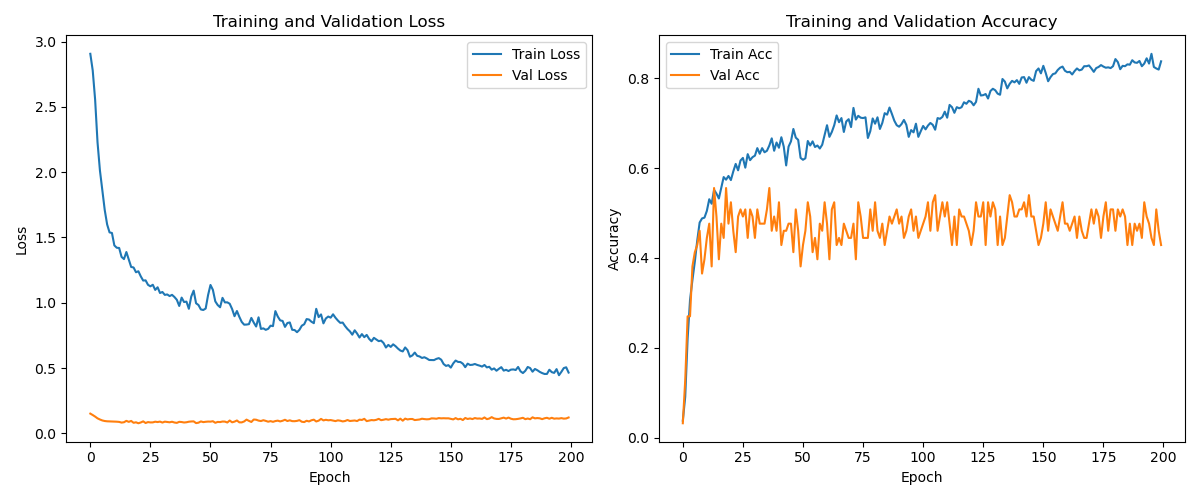
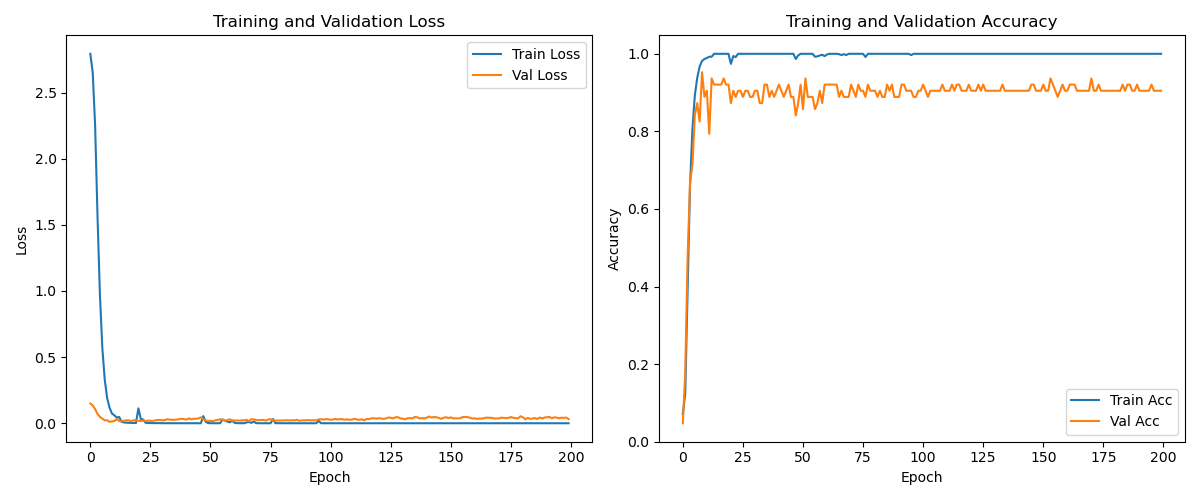
got 93.35% for CascadeFormer 1.1

diff --git a/README.md b/README.md
@@ -37,7 +37,7 @@ Cascading Finetuning:
 
 | dataset | #videos | #actions | dimension | #joints | outperform SoTA? |
 | ------- | ------- | -------- | --------- | ---------- | ------- |
-| Penn Action, joint | 2,326 | 15 | 2D | 13 | ??? < 93.4% (HDM-BG) |
+| Penn Action, joint | 2,326 | 15 | 2D | 13 | **93.35%** ~ 93.4% (HDM-BG) |
 | N-UCLA, joint | 1,494 | 12 | 3D | 20 | ??? < 98.3% (SkateFormer) |
 | NTU, joint | 56,880 | 60 | 3D | 25 | ??? << 92.6% (SkateFormer) - cross subject |
 

diff --git a/TUNING_LOG.md b/TUNING_LOG.md
@@ -92,8 +92,7 @@ The complete experiment tuning logs:
 | 30%, subtraction-bone | linear | 256 | 8 | 4 | no | 1e-4 | 1000 | 1e-5, wd=1e-4 | 1000 | 93.45% |
 
 | <tr><td colspan="11" align="center"> CascadeFormer 1.1 (spatial-aware) </td></tr> |
-| 30% | linear | 256 | 8 | 4 | no | 1e-4 | 200 | 1e-5, wd=1e-4 | 200 | ?? |
-
+| 30% | linear | 256 | 8 | 4 | no | 1e-4 | 200 | 1e-5, wd=1e-4 | 200 | **93.35%** |
 
 
 
